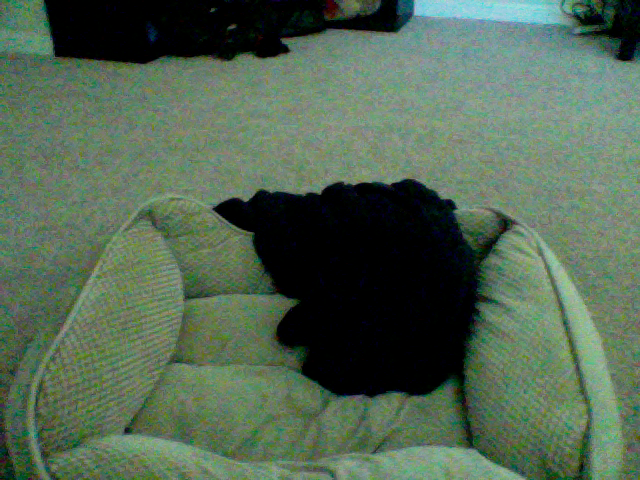
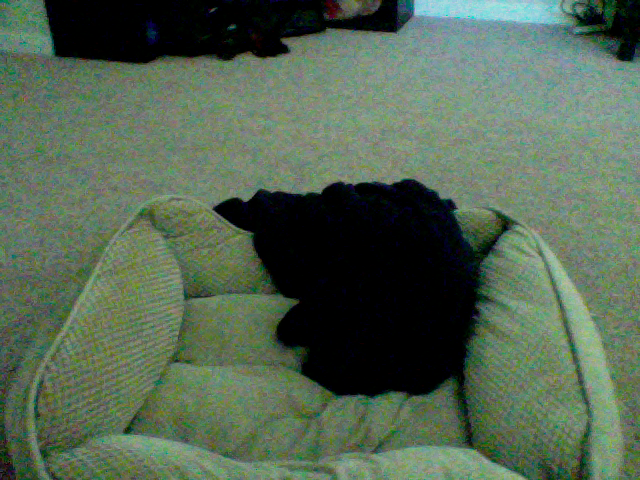
update at Month05Day08Time17:24

diff --git a/index.html b/index.html
@@ -39,8 +39,8 @@
       <!-- Example row of columns -->
       <div class="row">
         <div class="col-md-4">
-	<p>This picture was updated at Month05Day08Time17:23</p>
-		<img src="6_pic.png" />
+	<p>This picture was updated at Month05Day08Time17:24</p>
+		<img src="5_pic.png" />
         </div>
       </div>
 
